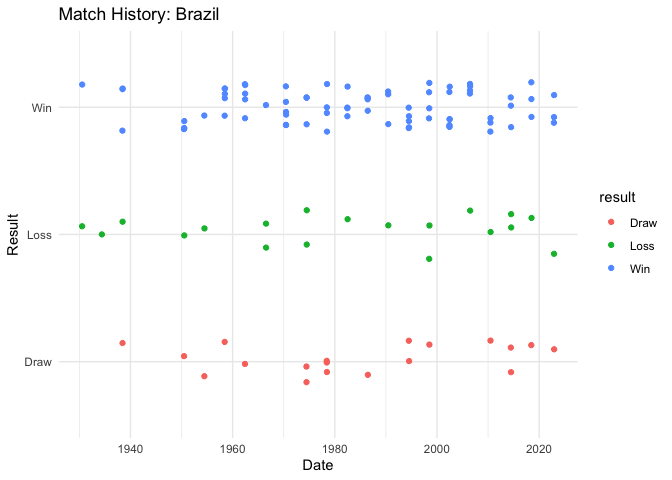
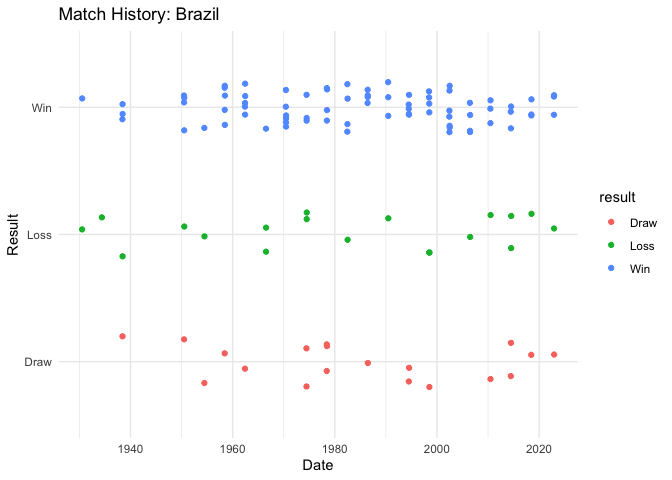
commit rmd file changes and knit

diff --git a/README.md b/README.md
@@ -48,18 +48,38 @@ team_summary("Brazil")
 #> 1 Brazil     114   76     19    19          237            108
 #simulate a tournament
 simulate_tournament(teams)$champion
-#> [1] "Portugal"
+#> [1] "France"
 #run simulations (500) either sequentially or parallel
-winners <- tournament_seq(teams)
-winners <- tournament_par(teams)
+winners_seq <- tournament_seq(teams)
+winners_par <- tournament_par(teams)
 #> Warning: executing %dopar% sequentially: no parallel backend registered
-table(winners)
-#> winners
+table(winners_seq)
+#> winners_seq
 #>   Argentina      Brazil     England      France     Germany Netherlands 
-#>           4          21           5          30         218          72 
+#>           6          25           5          20         231          58 
 #>    Portugal       Spain 
-#>         126          24
+#>         133          22
+table(winners_par)
+#> winners_par
+#>   Argentina      Brazil     England      France     Germany Netherlands 
+#>           3          24           3          34         224          66 
+#>    Portugal       Spain 
+#>         111          35
+
+bench1 <- microbenchmark::microbenchmark(
+  tournament_par(teams),
+  tournament_seq(teams),
+  times =5
+)
+#> Warning in microbenchmark::microbenchmark(tournament_par(teams),
+#> tournament_seq(teams), : less accurate nanosecond times to avoid potential
+#> integer overflows
+
+#plot the sequential winner probability table
+plot_win_probability(winners_seq)
 ```
+
+<img src="man/figures/README-example-1.png" width="100%" />
 
 # Full Analysis
 